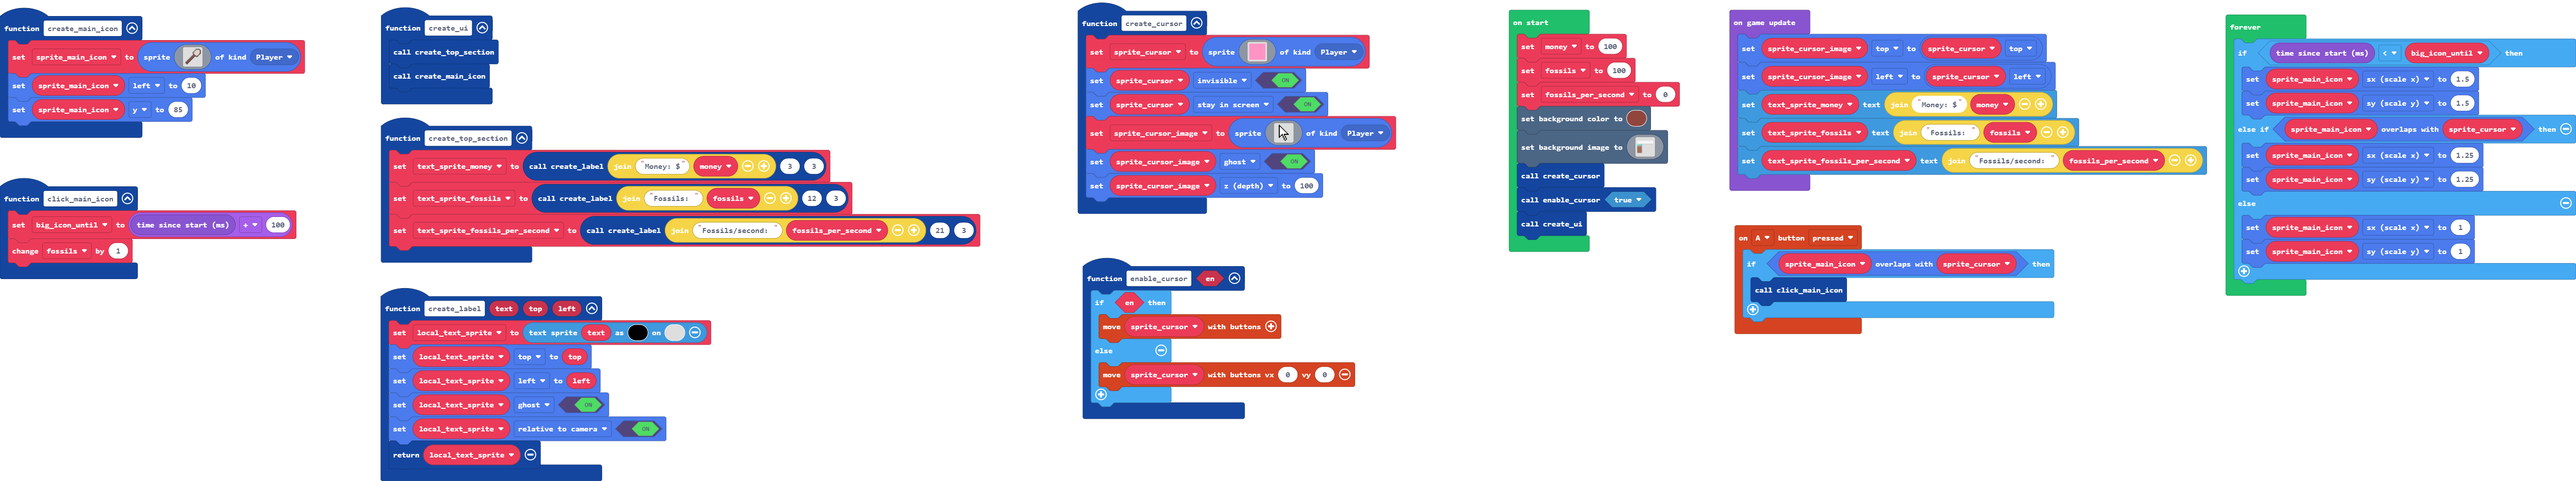
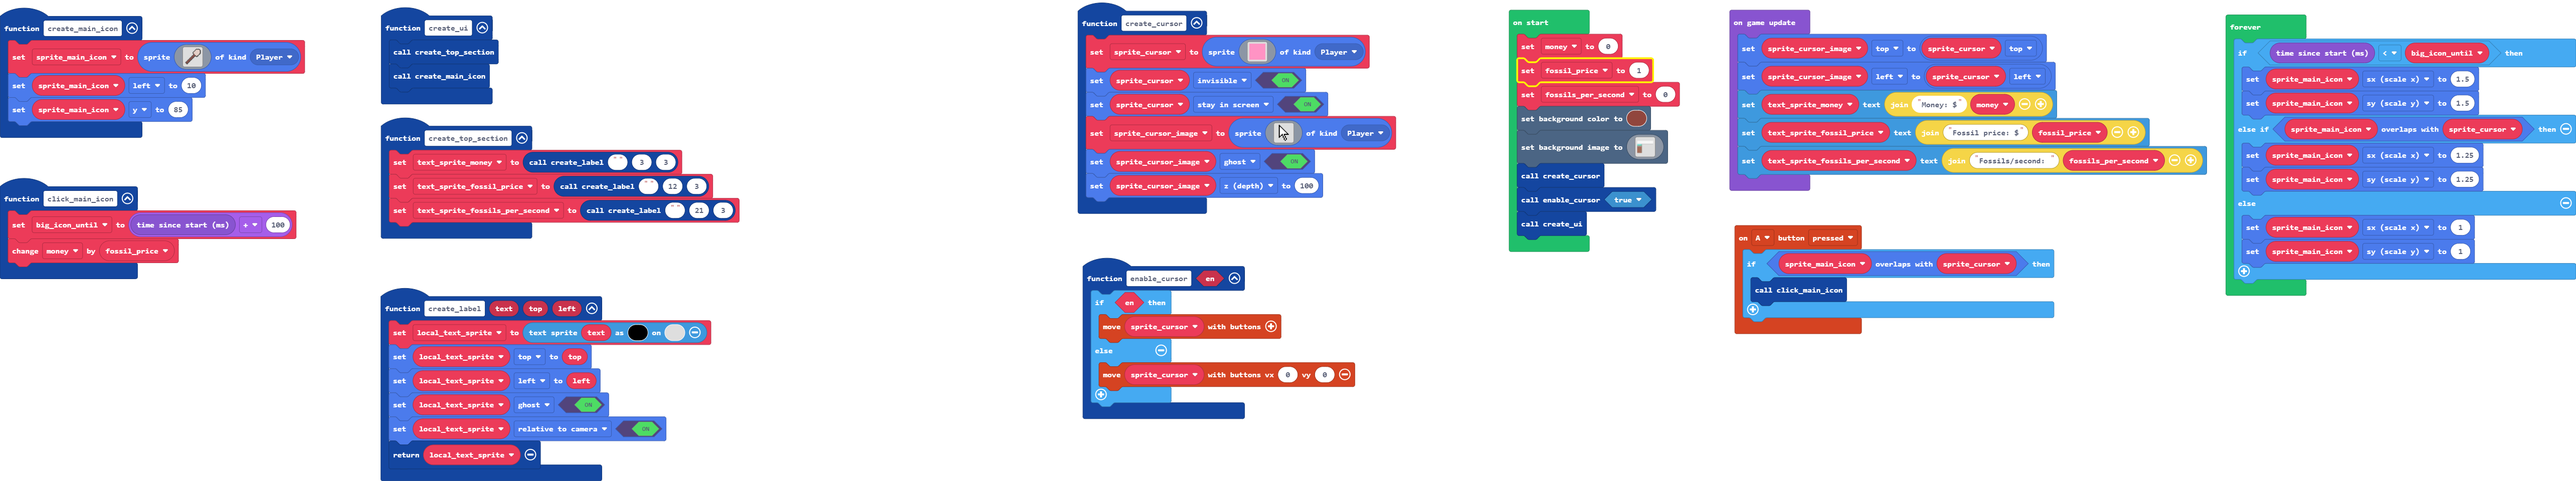
Fossils get converted into money automatically and edit image

diff --git a/images.g.ts b/images.g.ts
@@ -149,20 +149,20 @@ eeeeeeeeeeeeeeeeeeeeeeeeeeeeeeeeeeeeeeeeeeeeef..................................
 eeeeeeeeeeeeeeeeeeeeeeeeeeeeeeeeeeeeeeeeeeeeef..................................................................................................................
 eeeeeeeeeeeeeeeeeeeeeeeeeeeeeeeeeeeeeeeeeeeeef..................................................................................................................
 eeeeeeeeeeeeeeeeeeeeeeeeeeeeeeeeeeeeeeeeeeeeef..................................................................................................................
-eeeeeeeeeeeeeeeeeeeeeeeeeeeeeeeeeffffeeeeeeeef..................................................................................................................
-eeeeeeeeeeeeeeeeeeeeeeeeeeeeeeeeefdbfeeeeeeeef..................................................................................................................
-eeeeeeeeeeeeeeeeeeeeeeeeeeeeeeeffbddfeeeeeeeef..................................................................................................................
-eeeeeeeeeeeeeeeeeeeeeeeeeeeeeeefddddffeeeeeeef..................................................................................................................
-eeeeeeeeeeeeeeeeeeeeeeeeeeeeeeefbdddbffeeeeeef..................................................................................................................
-eeeeeeeeeeeeeeeeeeeeeeeeeeeeeeefffffddffeeeeef..................................................................................................................
-eeeeeeeeeeeeeeeeeeeeeeeeeeeeeeeeeeeffddffeeeef..................................................................................................................
-eeeeeeeeeeeeeeeeeeeeeeeeeeeeeeeeeeeeffddffeeef..................................................................................................................
-eeeeeeeeeeeeeeeeeeeeeeeeeeeeeeeeeeeeeffdbfffff..................................................................................................................
-eeeeeeeeeeeeeeeeeeeeeeeeeeeeeeeeeeeeeeffdddbff..................................................................................................................
-eeeeeeeeeeeeeeeeeeeeeeeeeeeeeeeeeeeeeeefddddff..................................................................................................................
-eeeeeeeeeeeeeeeeeeeeeeeeeeeeeeeeeeeeeeefddbfff..................................................................................................................
-eeeeeeeeeeeeeeeeeeeeeeeeeeeeeeeeeeeeeeefbdfeef..................................................................................................................
-eeeeeeeeeeeeeeeeeeeeeeeeeeeeeeeeeeeeeeeffffeef..................................................................................................................
+eeeeeeeeeeeeeeeeeeeeeeeeeeeeeeeffffeeeeeeeeeef..................................................................................................................
+eeeeeeeeeeeeeeeeeeeeeeeeeeeeeeefdbfeeeeeeeeeef..................................................................................................................
+eeeeeeeeeeeeeeeeeeeeeeeeeeeeeffbddfeeeeeeeeeef..................................................................................................................
+eeeeeeeeeeeeeeeeeeeeeeeeeeeeefddddffeeeeeeeeef..................................................................................................................
+eeeeeeeeeeeeeeeeeeeeeeeeeeeeefbdddbffeeeeeeeef..................................................................................................................
+eeeeeeeeeeeeeeeeeeeeeeeeeeeeefffffddffeeeeeeef..................................................................................................................
+eeeeeeeeeeeeeeeeeeeeeeeeeeeeeeeeeffddffeeeeeef..................................................................................................................
+eeeeeeeeeeeeeeeeeeeeeeeeeeeeeeeeeeffddffeeeeef..................................................................................................................
+eeeeeeeeeeeeeeeeeeeeeeeeeeeeeeeeeeeffdbffffeef..................................................................................................................
+eeeeeeeeeeeeeeeeeeeeeeeeeeeeeeeeeeeeffdddbfeef..................................................................................................................
+eeeeeeeeeeeeeeeeeeeeeeeeeeeeeeeeeeeeefddddfeef..................................................................................................................
+eeeeeeeeeeeeeeeeeeeeeeeeeeeeeeeeeeeeefddbffeef..................................................................................................................
+eeeeeeeeeeeeeeeeeeeeeeeeeeeeeeeeeeeeefbdfeeeef..................................................................................................................
+eeeeeeeeeeeeeeeeeeeeeeeeeeeeeeeeeeeeeffffeeeef..................................................................................................................
 eeeeeeeeeeeeeeeeeeeeeeeeeeeeeeeeeeeeeeeeeeeeef..................................................................................................................
 eeeeeeeeeeeeeeeeeeeeeeeeeeeeeeeeeeeeeeeeeeeeef..................................................................................................................
 eeeeeeeeeeeeeeeeeeeeeeeeeeeeeeeeeeeeeeeeeeeeef..................................................................................................................

diff --git a/main.ts b/main.ts
@@ -1,7 +1,7 @@
 function create_top_section () {
-    text_sprite_money = create_label("Money: $" + money, 3, 3)
-    text_sprite_fossils = create_label("Fossils: " + fossils, 12, 3)
-    text_sprite_fossils_per_second = create_label("Fossils/second: " + fossils_per_second, 21, 3)
+    text_sprite_money = create_label("", 3, 3)
+    text_sprite_fossil_price = create_label("", 12, 3)
+    text_sprite_fossils_per_second = create_label("", 21, 3)
 }
 function create_ui () {
     create_top_section()
@@ -35,7 +35,7 @@ function create_cursor () {
 }
 function click_main_icon () {
     big_icon_until = game.runtime() + 100
-    fossils += 1
+    money += fossil_price
 }
 function enable_cursor (en: boolean) {
     if (en) {
@@ -50,14 +50,12 @@ let sprite_cursor: Sprite = null
 let sprite_main_icon: Sprite = null
 let local_text_sprite: TextSprite = null
 let text_sprite_fossils_per_second: TextSprite = null
-let text_sprite_fossils: TextSprite = null
+let text_sprite_fossil_price: TextSprite = null
 let text_sprite_money: TextSprite = null
-let fossils_per_second = 0
-let fossils = 0
+let fossil_price = 0
 let money = 0
-money = 100
-fossils = 100
-fossils_per_second = 0
+fossil_price = 1
+let fossils_per_second = 0
 scene.setBackgroundColor(14)
 scene.setBackgroundImage(assets.image`background`)
 create_cursor()
@@ -67,7 +65,7 @@ game.onUpdate(function () {
     sprite_cursor_image.top = sprite_cursor.top
     sprite_cursor_image.left = sprite_cursor.left
     text_sprite_money.setText("Money: $" + money)
-    text_sprite_fossils.setText("Fossils: " + fossils)
+    text_sprite_fossil_price.setText("Fossil price: $" + fossil_price)
     text_sprite_fossils_per_second.setText("Fossils/second: " + fossils_per_second)
 })
 forever(function () {
